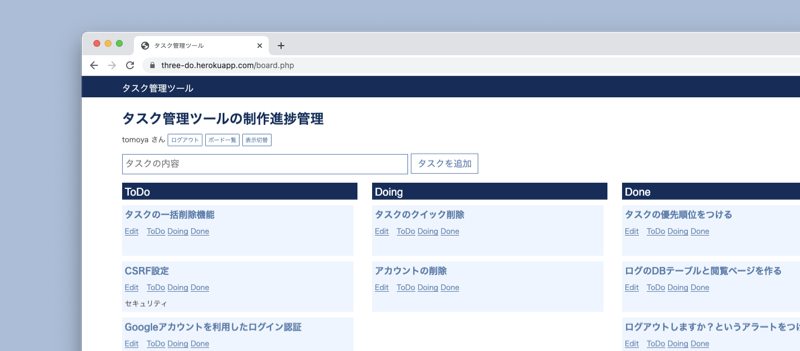
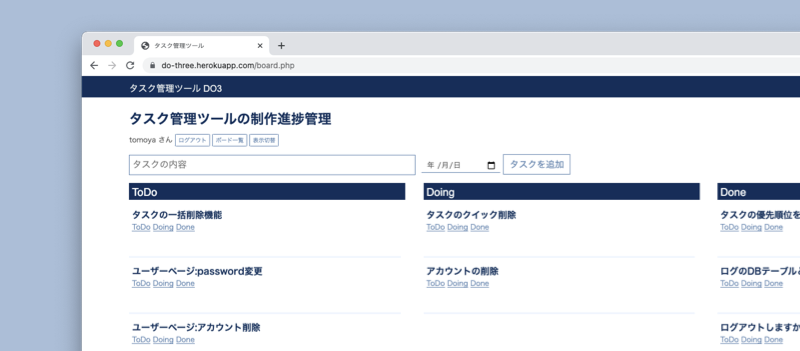
taskの画像を変更

diff --git a/works/index.html b/works/index.html
@@ -259,7 +259,7 @@
         <a href="./task-management-tool">
           <img src="../img/index2/task-management-tool.png">
           <div class="mask">
-            <div class="caption">タスク管理ツール</div>
+            <div class="caption">タスク管理ツール DO3</div>
           </div>
         </a>
       </div>

diff --git a/works/task-management-tool.html b/works/task-management-tool.html
@@ -30,7 +30,7 @@
 		
 		<div id="main">
 			<div id="main_contents">
-				<h2>タスク管理ツール</h2>
+				<h2>タスク管理ツール DO3</h2>
 				
 				<div class="info">2019.12 / WebApplication</div>
 				
